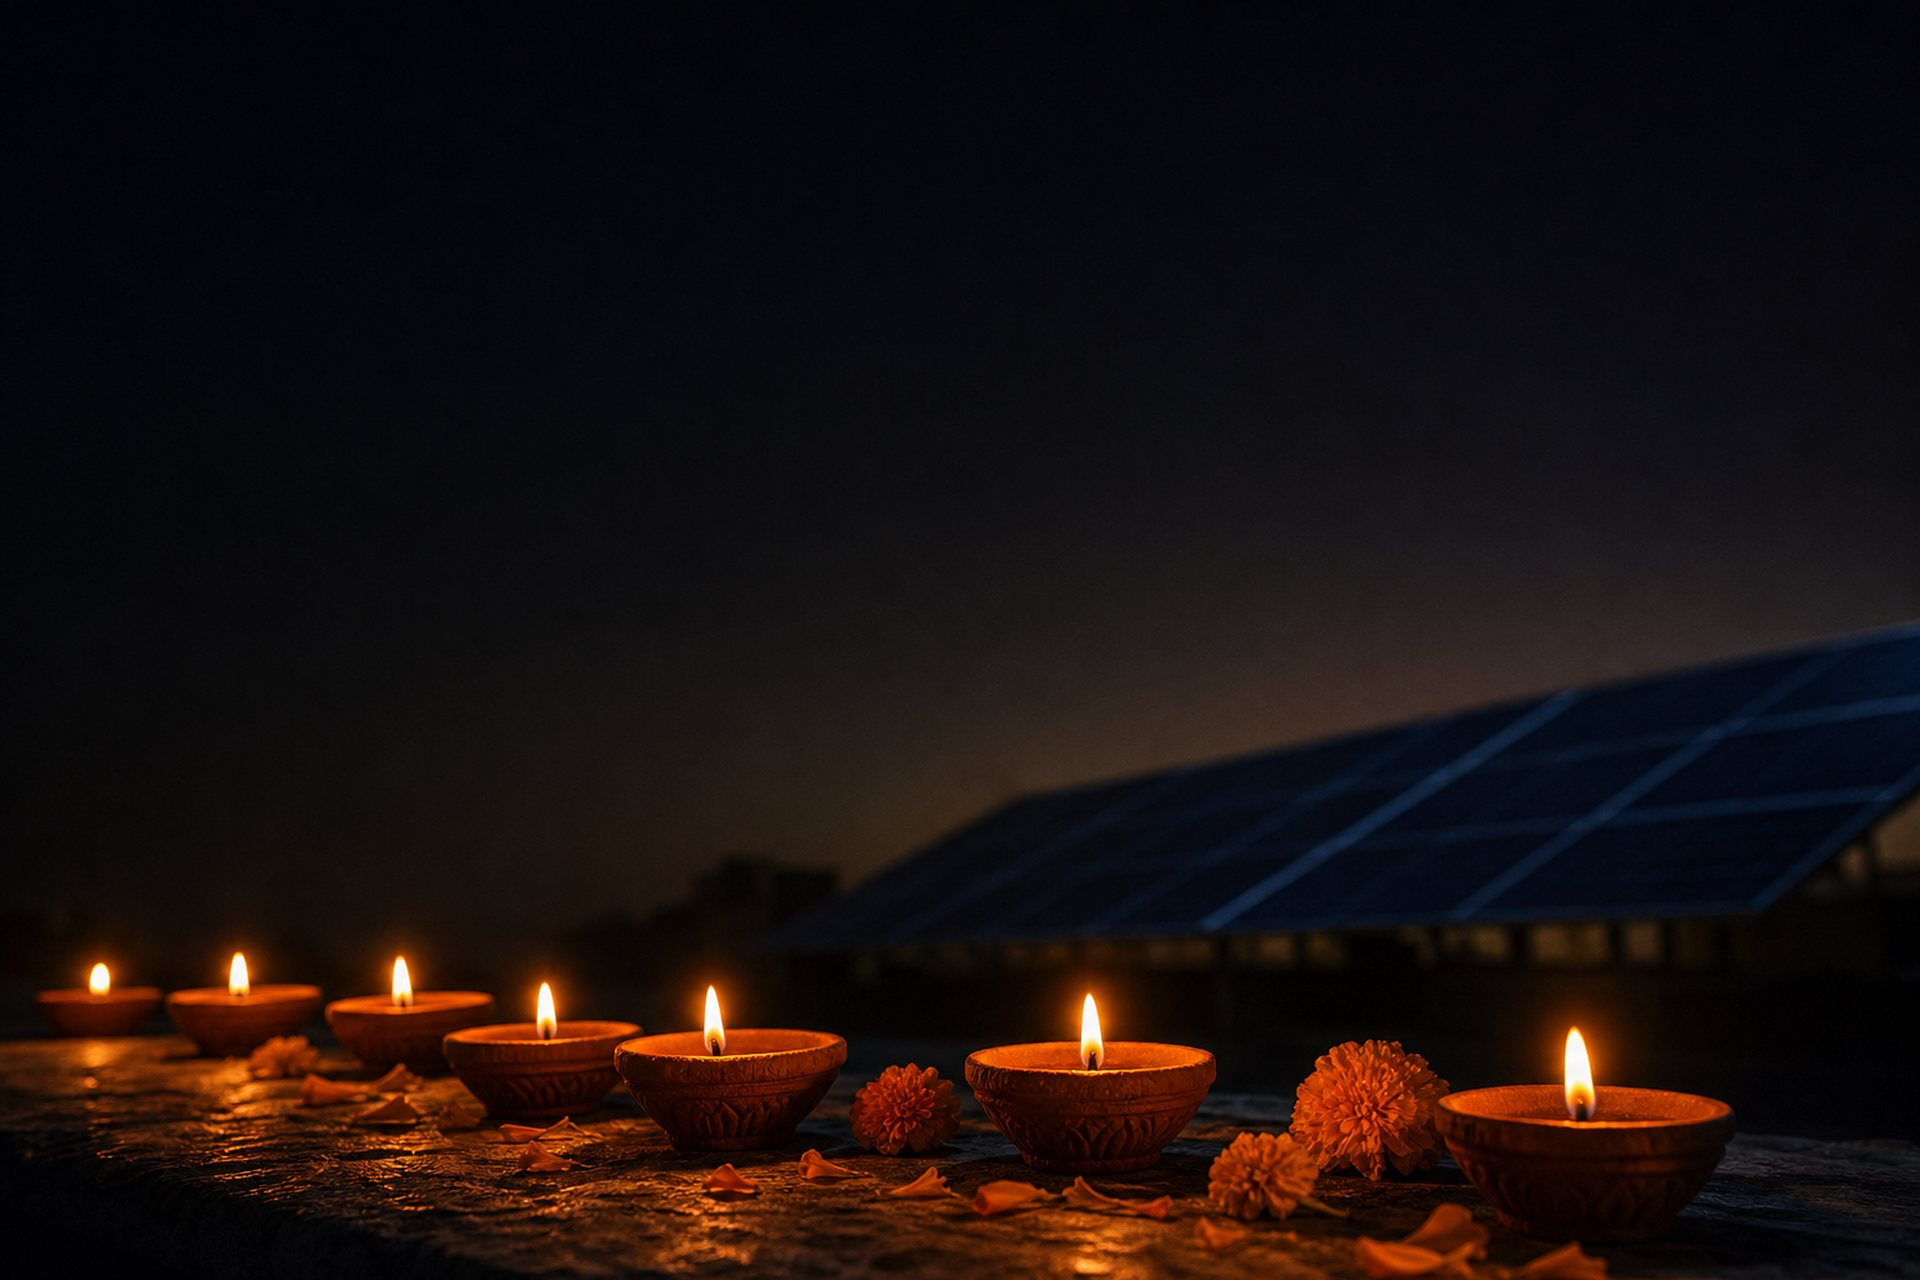
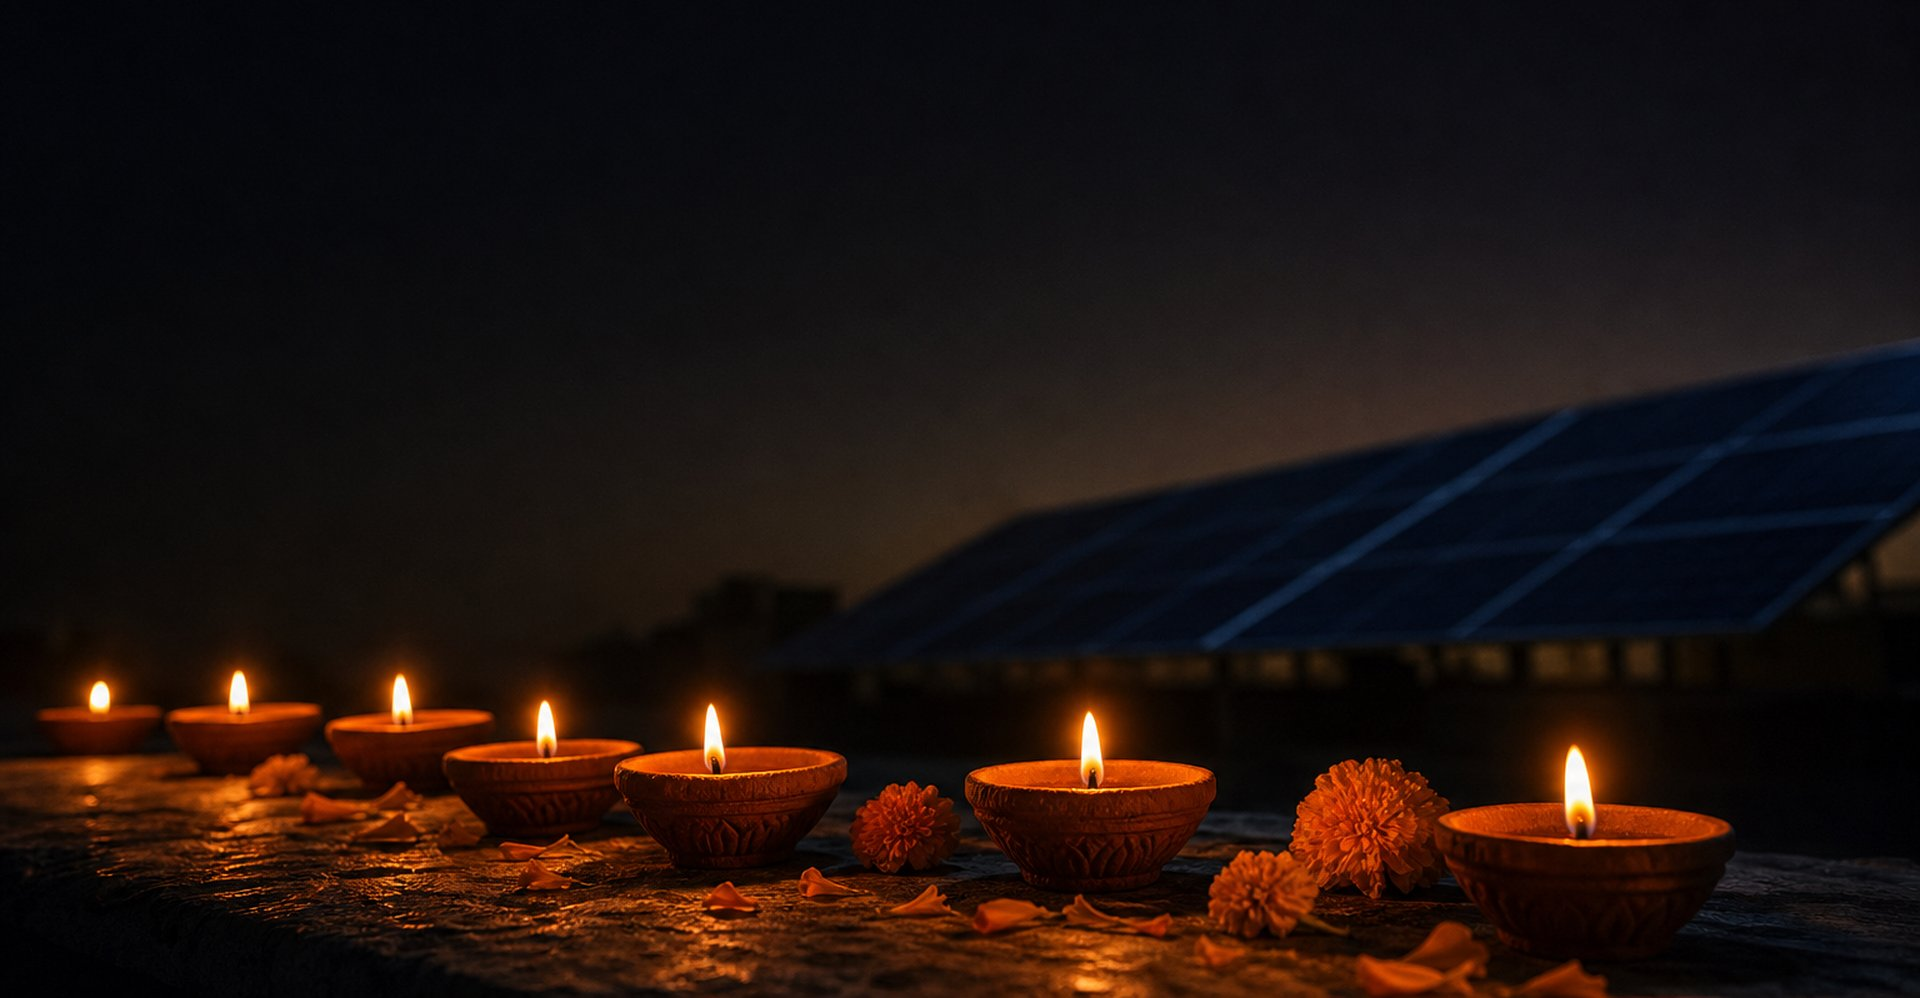
Ayudha hero: re-crop festival image so lamps and panels sit inside the hero viewport

Changed region(s): [[0.0, 0.3106, 1.0, 1.0], [0.9062, 0.6834, 0.9375, 0.7144], [0.875, 0.5591, 0.9062, 0.5902]]

diff --git a/index.html b/index.html
@@ -414,8 +414,8 @@
   .festival-bar a{color:var(--fest-ink);text-decoration:underline;text-underline-offset:2px;}
   html[data-theme="ayudha"] .offers-band{background:linear-gradient(180deg,#fff3e0 0%,#ffffff 78%);}
   html[data-theme="ayudha"] .offer-ribbon{background:var(--fest-accent);color:#40260a;}
-  html[data-theme="ayudha"] .hero::before{background-image:url('images/theme/ayudha-hero.jpg');background-position:center bottom;opacity:1;}
-  html[data-theme="ayudha"] .hero::after{background:linear-gradient(100deg,rgba(6,6,8,.93) 0%,rgba(6,6,8,.70) 42%,rgba(6,6,8,.18) 100%);}
+  html[data-theme="ayudha"] .hero::before{background-image:url('images/theme/ayudha-hero.jpg');background-position:center center;opacity:1;}
+  html[data-theme="ayudha"] .hero::after{background:linear-gradient(100deg,rgba(6,6,8,.90) 0%,rgba(6,6,8,.62) 40%,rgba(6,6,8,.10) 100%);}
   html[data-theme="deepavali"] .offers-band{background:linear-gradient(180deg,#fdf1f5 0%,#ffffff 78%);}
   html[data-theme="christmas"] .offers-band{background:linear-gradient(180deg,#f0fbf3 0%,#ffffff 78%);}
   /* ── current offers ── */
